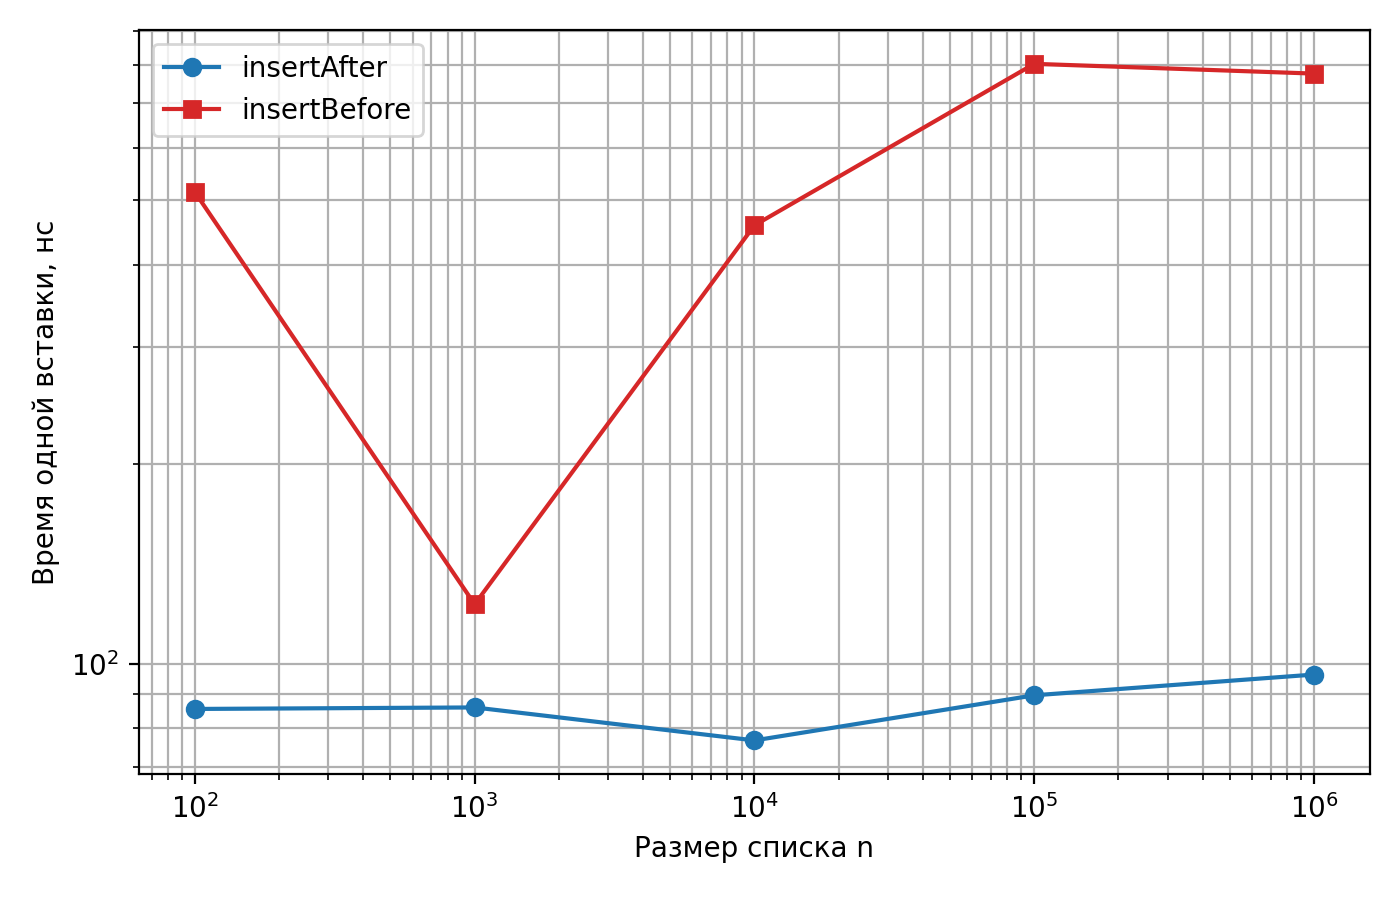
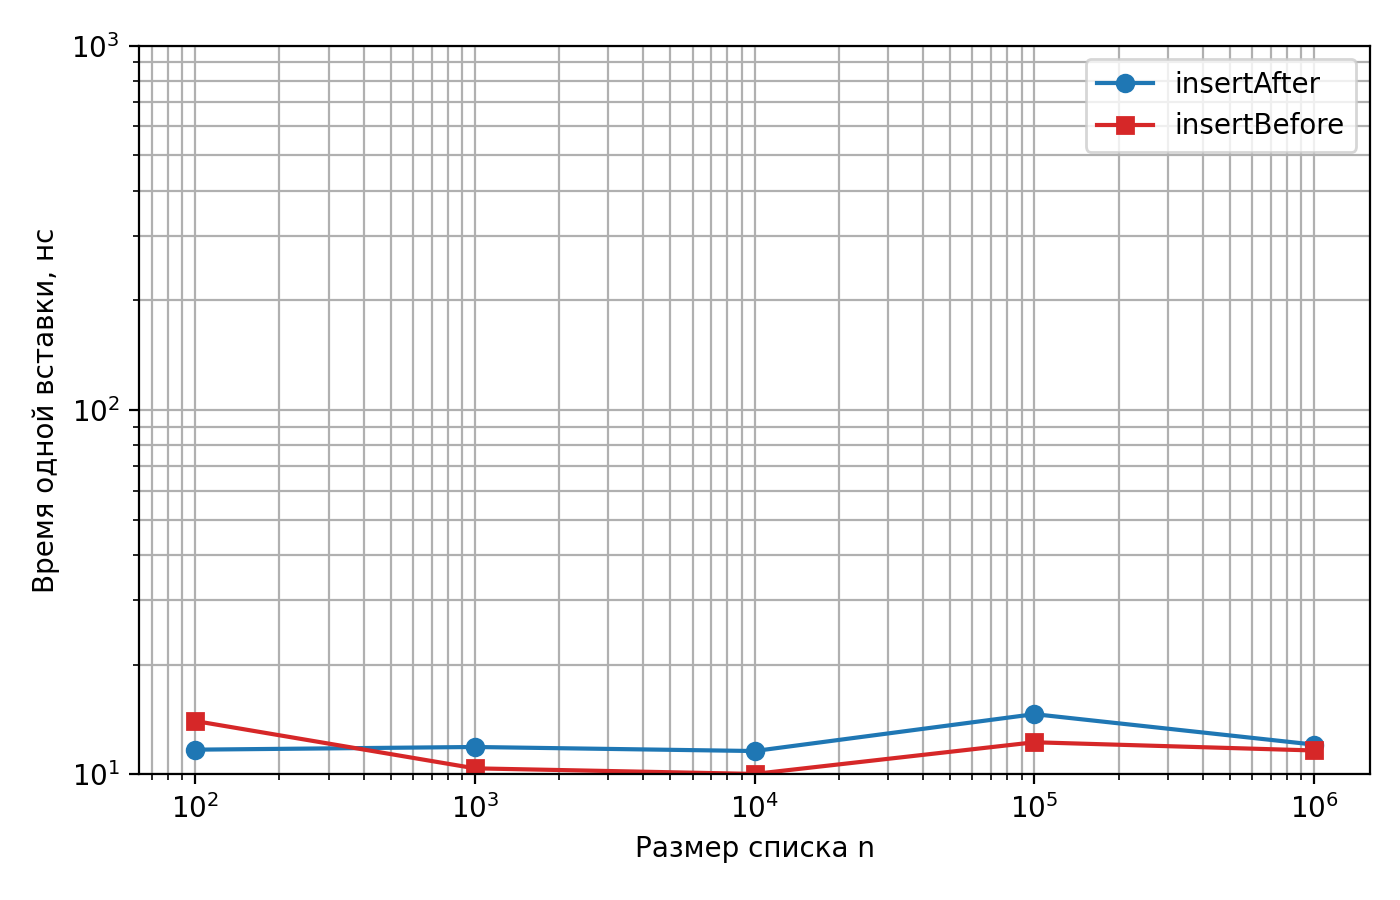
fix more bugs

diff --git a/graphics.py b/graphics.py
@@ -36,14 +36,19 @@ def plot_single(table, column, label, color, marker, filename):
     return fig
 
 
-def plot_both(table, filename):
+def plot_both(table, filename, ylim=None, linear=False):
     fig, ax = plt.subplots(figsize=(7, 4.5))
     ax.plot(table["n"], table["after_ns"], marker="o", color="tab:blue",
             label="insertAfter")
     ax.plot(table["n"], table["before_ns"], marker="s", color="tab:red",
             label="insertBefore")
     ax.set_xscale("log")
-    ax.set_yscale("log")
+    if not linear:
+        ax.set_yscale("log")
+    if ylim:
+        ax.set_ylim(ylim)
+    elif linear:
+        ax.set_ylim(bottom=0)
     ax.set_xlabel("Размер списка n")
     ax.set_ylabel("Время одной вставки, нс")
     ax.grid(True, which="both")
@@ -55,17 +60,27 @@ def plot_both(table, filename):
 
 def main():
     parser = argparse.ArgumentParser(description="Графики по avg.csv")
-    parser.add_argument("folder", nargs="?", help="папка с avg.csv (например, best или worse)")
-    parser.add_argument("--show", action="store_true", help="показать графики на экране")
+    parser.add_argument("folder", nargs="?",
+                        help="папка с avg.csv (например, best или worse)")
+    parser.add_argument("--show", action="store_true",
+                        help="показать графики на экране")
+    parser.add_argument("--ylim", nargs=2, type=float, metavar=("LOW", "HIGH"),
+                        help="границы оси Y для общего графика graph_both.png")
+    parser.add_argument("--linear", action="store_true",
+                        help="общий график с линейной осью Y (X остаётся логарифмической)")
     args = parser.parse_args()
 
     folder = args.folder or input("Папка с avg.csv (best / worse): ").strip()
     table = load_table(folder)
 
     out = lambda name: os.path.join(folder, name)
-    plot_single(table, "after_ns", "insertAfter", "tab:blue", "o", out("graph_after.png"))
-    plot_single(table, "before_ns", "insertBefore", "tab:red", "s", out("graph_before.png"))
-    plot_both(table, out("graph_both.png"))
+    plot_single(table, "after_ns", "insertAfter", "tab:blue", "o",
+                out("graph_after.png"))
+    plot_single(table, "before_ns", "insertBefore", "tab:red", "s",
+                out("graph_before.png"))
+    plot_both(table, out("graph_both.png"),
+              ylim=tuple(args.ylim) if args.ylim else None,
+              linear=args.linear)
 
     print(f"Готово. Графики сохранены в папку {folder}:")
     print("  graph_after.png, graph_before.png, graph_both.png")

diff --git a/Laboratory3.cpp b/Laboratory3.cpp
@@ -108,11 +108,12 @@ void fillRandom(SinglyList& list, int n, std::mt19937& gen) {
 double benchInsertBefore(int n, int k, std::mt19937& gen){
     SinglyList benchList;
     fillRandom(benchList, n, gen);
-    auto target = benchList.findNode(n - 1); // Здесь
+    auto target = benchList.findNode(0); // Здесь
 
     auto start = Clock::now();
 
     for (int i = 0; i < k; i++) {
+        target = benchList.findNode(0); // В лучшем случае нужно раскоментировать эту строчку
         benchList.insertBefore(target, 100);
     }
 
@@ -124,7 +125,7 @@ double benchInsertBefore(int n, int k, std::mt19937& gen){
 double benchInsertAfter(int n, int k, std::mt19937& gen) {
     SinglyList benchList;
     fillRandom(benchList, n, gen);
-    auto target = benchList.findNode(n - 1); // Здесь
+    auto target = benchList.findNode(0); // Здесь
 
     auto start = Clock::now();
 
@@ -151,7 +152,7 @@ int main() {
 
             for (int j = 0; j < 5; j++) {
                 iAfter += benchInsertAfter(size[i], 1000, gen);
-                iBefore += benchInsertBefore(size[i], std::min(1000, size[i]/5), gen);
+                iBefore += benchInsertBefore(size[i], std::min(1000, size[i]/10), gen); // для лучшего поставить k = 1000, для худшего size[i]/10
             }
 
             file << size[i] << ',' << iAfter / 5 << ',' << iBefore / 5 << '\n';

diff --git a/tables.py b/tables.py
@@ -3,14 +3,14 @@ import pandas as pd
 pd.options.display.float_format = "{:.1f}".format
 
 # Усреднение худших результатов
-frames = [pd.read_csv(f"worse/result0{i}.csv", skipinitialspace=True) for i in range(1, 5)]
+frames = [pd.read_csv(f"worse/result0{i}.csv", skipinitialspace=True) for i in range(1, 6)]
 table = pd.concat(frames).groupby("n").mean()
 table.to_csv("worse/avg.csv")
 print(table)
 print()
 
 # Усреднение лучших результатов
-frames = [pd.read_csv(f"best/result0{i}.csv", skipinitialspace=True) for i in range(1, 5)]
+frames = [pd.read_csv(f"best/result0{i}.csv", skipinitialspace=True) for i in range(1, 6)]
 table = pd.concat(frames).groupby("n").mean()
 table.to_csv("best/avg.csv")
 print(table)
